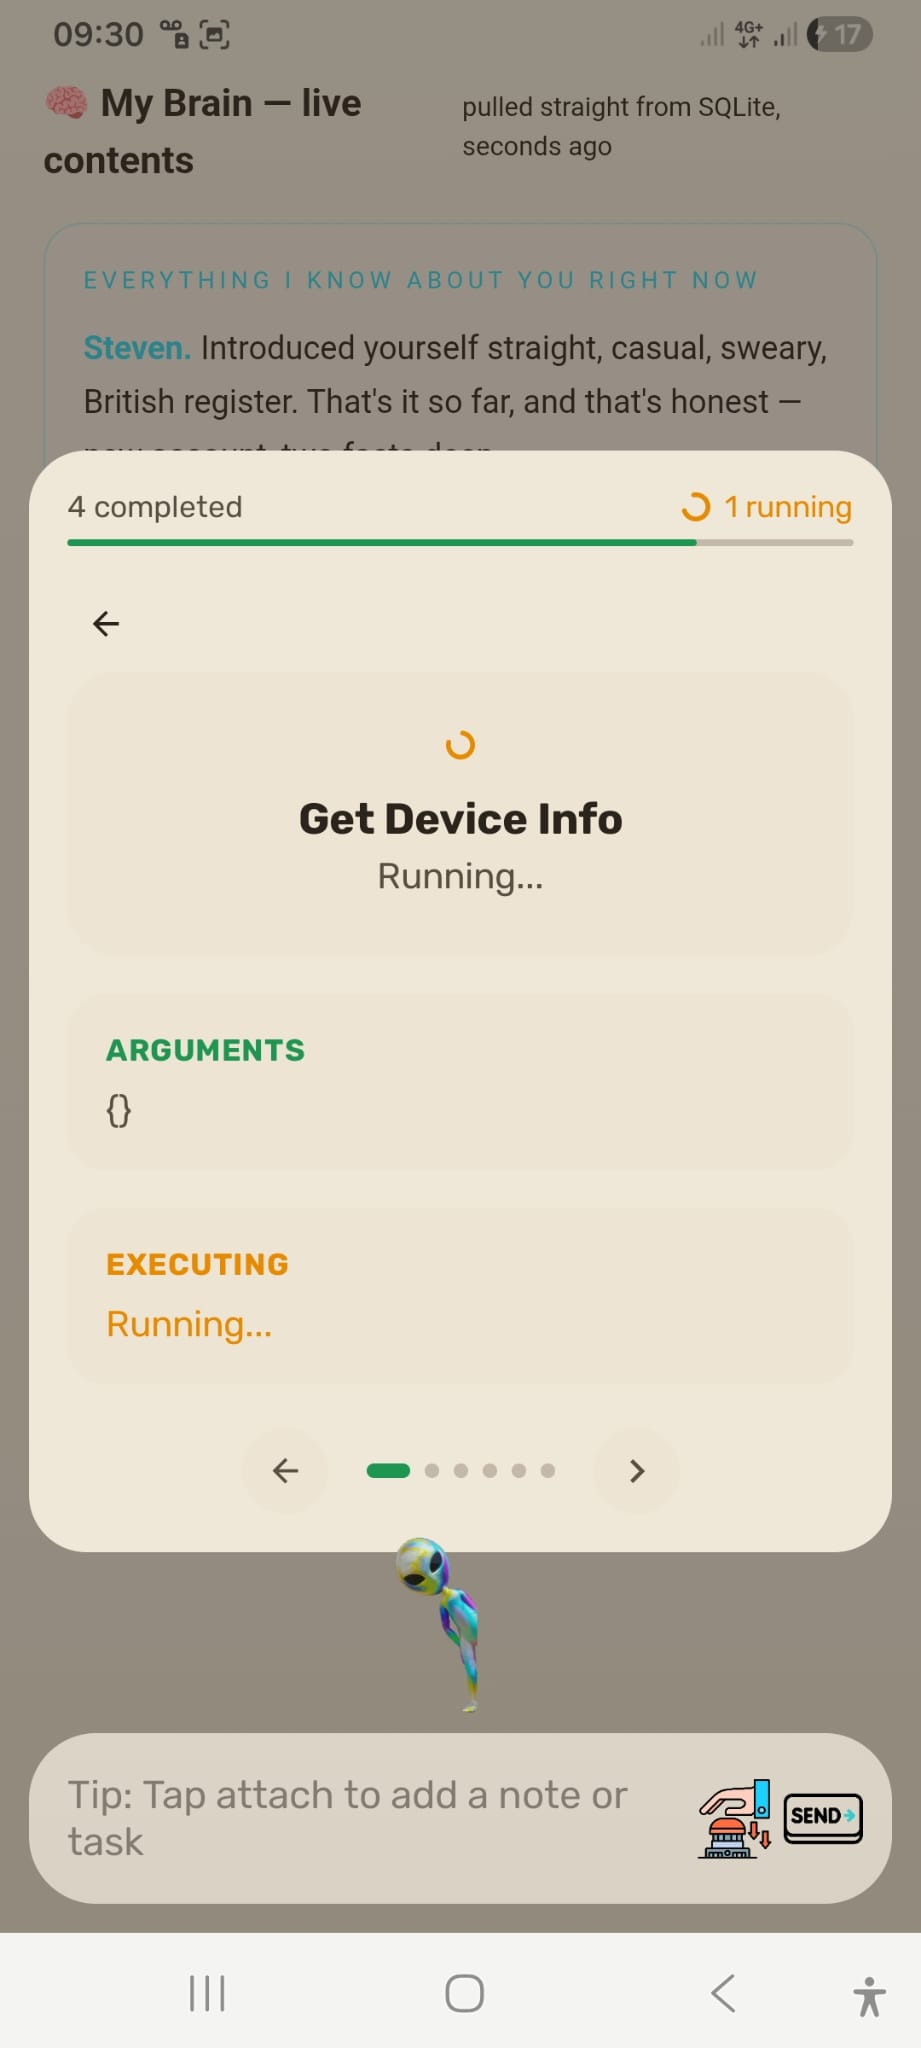
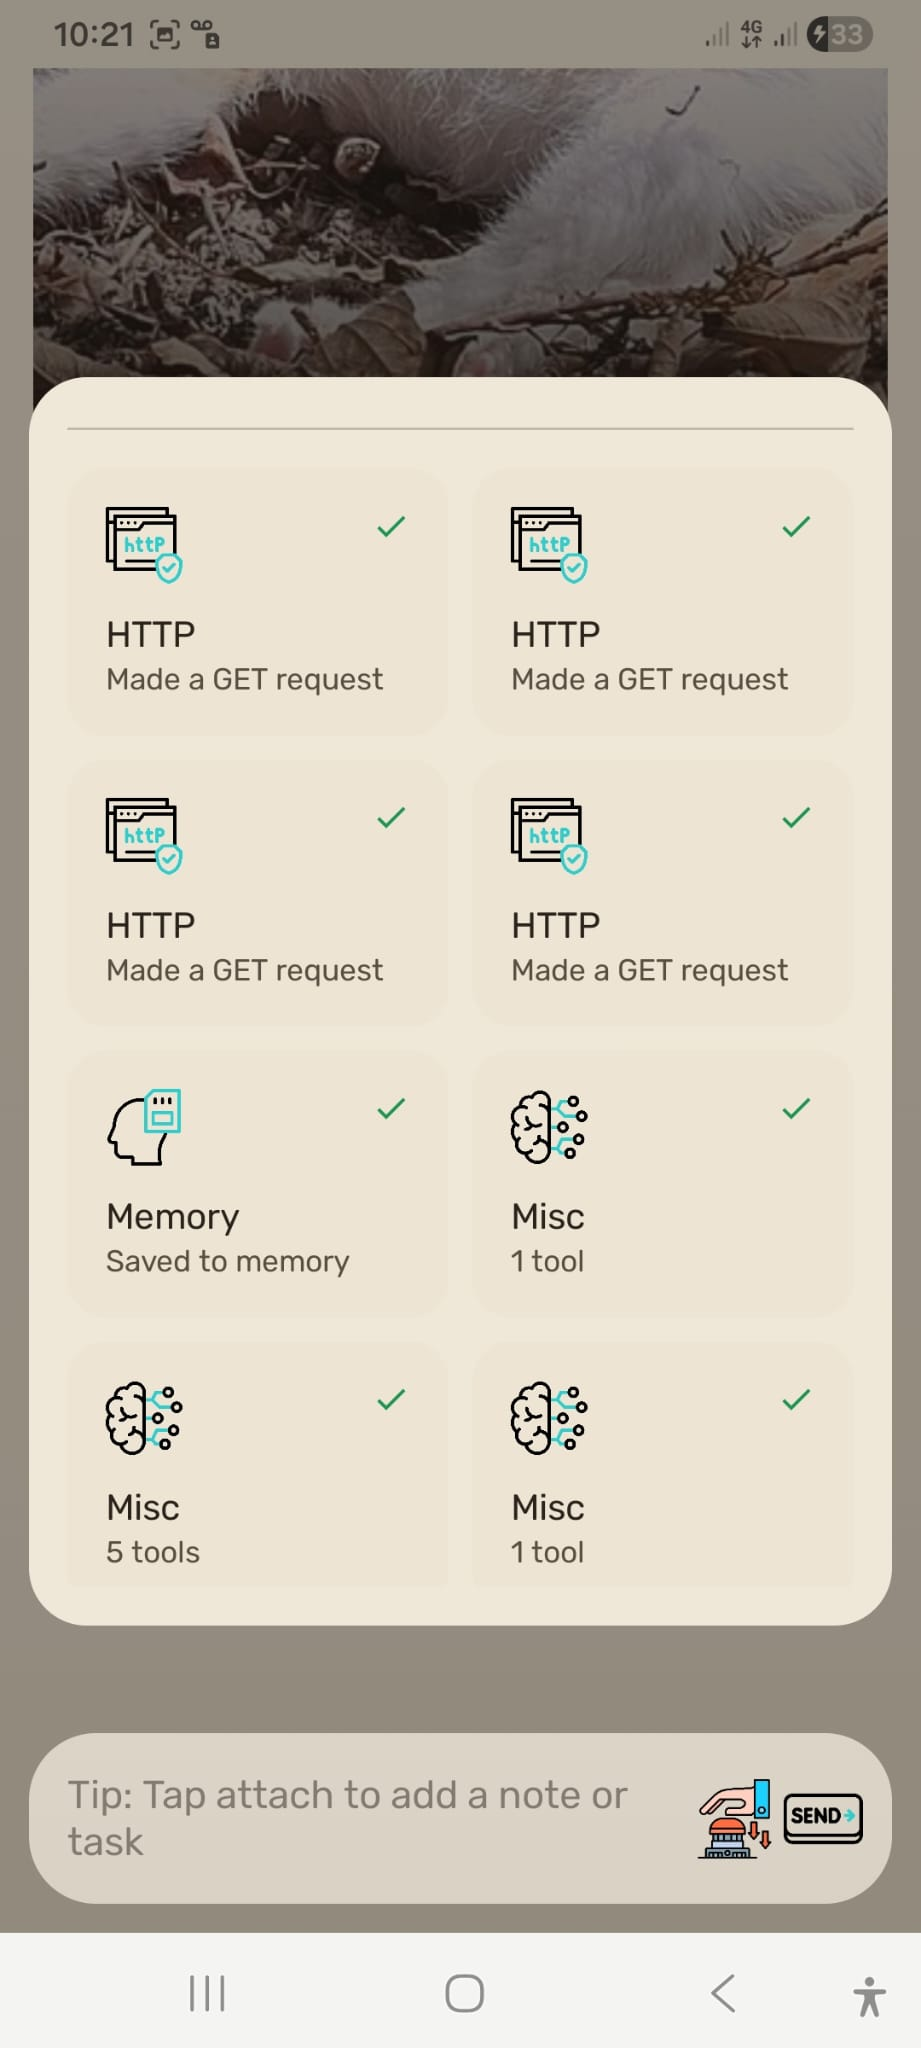
Add all screenshots and videos to README gallery
- Synced 68 screenshots, replacing older variants with current files
- Updated README gallery to embed all 68 screenshots
- Verified all 4 videos already present

diff --git a/README.md b/README.md
@@ -62,16 +62,18 @@ A real app, running on a real phone. All images captured live from GURU:
 
 | | | | | | |
 |---|---|---|---|---|---|
-| ![](screenshots/Guru%20intro%20showing%20loading%20state.jpeg) **Guru intro showing loading state** | ![](screenshots/Guru%20being%20Guru.jpeg) **Guru being Guru** | ![](screenshots/Guru's%20thinking.jpeg) **Guru's thinking** | ![](screenshots/What%20can%20GURU%20do%3F.jpeg) **What can GURU do?** | ![](screenshots/GURU%20device%20control.jpeg) **GURU device control** | ![](screenshots/GURU%20device%20control%20%22my%20body%22.jpeg) **GURU device control "my body"** |
-| ![](screenshots/GURU%20device%20control%20more.jpeg) **GURU device control more** | ![](screenshots/GURU%20notification.jpeg) **GURU notification** | ![](screenshots/GURU%20local%20memory.jpeg) **GURU local memory** | ![](screenshots/GURU%20web.jpeg) **GURU web** | ![](screenshots/GURU%20building.jpeg) **GURU building** | ![](screenshots/GURU%20dpa.jpeg) **GURU dpa** |
-| ![](screenshots/GURU%20fun.jpeg) **GURU fun** | ![](screenshots/GURU%20fresh%20portal.jpeg) **GURU fresh portal** | ![](screenshots/GURU%20permissions%20ui%20boolean%20off.jpeg) **GURU permissions ui boolean off** | ![](screenshots/GURU%20permissions%20intent.jpeg) **GURU permissions intent** | ![](screenshots/GURU%20permissions%20ui%20boolean%20on.jpeg) **GURU permissions ui boolean on** | ![](screenshots/More%20GURU%20permissions%20boolean%20ui.jpeg) **More GURU permissions boolean ui** |
-| ![](screenshots/GURU%20batch%20tool%20call.jpeg) **GURU batch tool call** | ![](screenshots/GURU%20tools%20ui%20level%202%20(notification).jpeg) **GURU tools ui level 2 (notification)** | ![](screenshots/GURU%20tool%20ui%20result%20ui.jpeg) **GURU tool ui result ui** | ![](screenshots/More%20GURU%20tools%20UI.jpeg) **More GURU tools UI** | ![](screenshots/GURU%20brain.jpeg) **GURU brain** | ![](screenshots/GURU%20brain%20part%202.jpeg) **GURU brain part 2** |
-| ![](screenshots/More%20GURU%20thinking.jpeg) **More GURU thinking** | ![](screenshots/GURU%20thinking%2C%20streaming%20%26%20responding.jpeg) **GURU thinking, streaming & responding** | ![](screenshots/GURU%20browsing%20capabilities.jpeg) **GURU browsing capabilities** | ![](screenshots/GURU%20browsing.jpeg) **GURU browsing** | ![](screenshots/GURU%20media%20engine%20no%20JS%20permissions%20(intentional).jpeg) **GURU media engine no JS permissions (intentional)** | ![](screenshots/GURU%20automation.jpeg) **GURU automation** |
-| ![](screenshots/GURU%20code%20deploying.jpeg) **GURU code deploying** | ![](screenshots/GURU%20full%20apps.jpeg) **GURU full apps** | ![](screenshots/GURU%20live%20dashboards.jpeg) **GURU live dashboards** | ![](screenshots/GURU%20mini%20apps%20in%20app.jpeg) **GURU mini apps in app** | ![](screenshots/GURU%20mini%20games%20demo.jpeg) **GURU mini games demo** | ![](screenshots/GURU%20creating%20new%20photobook%20template.jpeg) **GURU creating new photobook template** |
-| ![](screenshots/GURU%20photobook%20portal%20render%20bristol%201.jpeg) **GURU photobook portal render bristol 1** | ![](screenshots/GURU%20photobook%20portal%20render%20bristol%205.jpeg) **GURU photobook portal render bristol 5** | ![](screenshots/GURU%20photobook%20portal%20render%20bristol%2012.jpeg) **GURU photobook portal render bristol 12** | ![](screenshots/GURU%20photobook%20portal%20render%20bristol%2013.jpeg) **GURU photobook portal render bristol 13** | ![](screenshots/GURU%20photobook%20portal%20render%20bristol%2014.jpeg) **GURU photobook portal render bristol 14** | ![](screenshots/GURU%20photobook%20portal%20render%20bristol%20more.jpeg) **GURU photobook portal render bristol more** |
-| ![](screenshots/GURU%20photobook%20portal%20render%202.jpeg) **GURU photobook portal render 2** | ![](screenshots/GURU%20test%20photo%20album%20cats%201.jpeg) **GURU test photo album cats 1** | ![](screenshots/GURU%20test%20photo%20album%20cats%202.jpeg) **GURU test photo album cats 2** | ![](screenshots/GURU%20test%20photo%20album%20cats%203.jpeg) **GURU test photo album cats 3** | ![](screenshots/GURU%20test%20photo%20album%20cats%204.jpeg) **GURU test photo album cats 4** | ![](screenshots/GURU%20test%20photo%20album%20cats%205.jpeg) **GURU test photo album cats 5** |
-| ![](screenshots/GURU%20installing%20kodi%20on%20my%20firestick%201.jpeg) **GURU installing kodi on my firestick 1** | ![](screenshots/GURU%20installing%20kodi%20on%20my%20firestick%202.jpeg) **GURU installing kodi on my firestick 2** | ![](screenshots/GURU%20installing%20kodi%20on%20my%20firestick%203.jpeg) **GURU installing kodi on my firestick 3** | ![](screenshots/GURU%20installing%20kodi%20on%20my%20firestick%20tools%20calls.jpeg) **GURU installing kodi on my firestick tools calls** | ![](screenshots/GURU%20installing%20kodi%20on%20my%20firestick%20tools%20ui.jpeg) **GURU installing kodi on my firestick tools ui** | ![](screenshots/More%20tools%20ui%20GURU.jpeg) **More tools ui GURU** |
-| ![](screenshots/More%20GURU%20tools%20UI.jpeg) **More GURU tools UI** | ![](screenshots/more%20GURU%20tools%20ui%20.jpeg) **more GURU tools ui** | | | | |
+| ![](screenshots/GURU%20Earn%20bug%20bounties.jpeg) **GURU Earn bug bounties** | ![](screenshots/GURU%20Tennis%20betting.jpeg) **GURU Tennis betting** | ![](screenshots/GURU%20automation.jpeg) **GURU automation** | ![](screenshots/GURU%20batch%20tool%20call.jpeg) **GURU batch tool call** | ![](screenshots/GURU%20betting%20.jpeg) **GURU betting** | ![](screenshots/GURU%20brain%20part%202.jpeg) **GURU brain part 2** |
+| ![](screenshots/GURU%20brain.jpeg) **GURU brain** | ![](screenshots/GURU%20browsing%20capabilities.jpeg) **GURU browsing capabilities** | ![](screenshots/GURU%20browsing.jpeg) **GURU browsing** | ![](screenshots/GURU%20building.jpeg) **GURU building** | ![](screenshots/GURU%20code%20deploying.jpeg) **GURU code deploying** | ![](screenshots/GURU%20creating%20new%20photobook%20template.jpeg) **GURU creating new photobook template** |
+| ![](screenshots/GURU%20device%20control%20%22my%20body%22.jpeg) **GURU device control "my body"** | ![](screenshots/GURU%20device%20control%20more.jpeg) **GURU device control more** | ![](screenshots/GURU%20device%20control.jpeg) **GURU device control** | ![](screenshots/GURU%20dpa.jpeg) **GURU dpa** | ![](screenshots/GURU%20earn%20arbitrage.jpeg) **GURU earn arbitrage** | ![](screenshots/GURU%20earn%20ethical%20hacking.jpeg) **GURU earn ethical hacking** |
+| ![](screenshots/GURU%20earn%20match%20betting.jpeg) **GURU earn match betting** | ![](screenshots/GURU%20earn%20render.jpeg) **GURU earn render** | ![](screenshots/GURU%20earn%20trading.jpeg) **GURU earn trading** | ![](screenshots/GURU%20esports%20betting.jpeg) **GURU esports betting** | ![](screenshots/GURU%20exchange%20trading.jpeg) **GURU exchange trading** | ![](screenshots/GURU%20football%20betting.jpeg) **GURU football betting** |
+| ![](screenshots/GURU%20fresh%20portal.jpeg) **GURU fresh portal** | ![](screenshots/GURU%20full%20apps.jpeg) **GURU full apps** | ![](screenshots/GURU%20fun.jpeg) **GURU fun** | ![](screenshots/GURU%20gambeling%20%28casino%29.jpeg) **GURU gambeling (casino)** | ![](screenshots/GURU%20installing%20kodi%20on%20my%20firestick%201.jpeg) **GURU installing kodi on my firestick 1** | ![](screenshots/GURU%20installing%20kodi%20on%20my%20firestick%202.jpeg) **GURU installing kodi on my firestick 2** |
+| ![](screenshots/GURU%20installing%20kodi%20on%20my%20firestick%203.jpeg) **GURU installing kodi on my firestick 3** | ![](screenshots/GURU%20installing%20kodi%20on%20my%20firestick%20tools%20calls.jpeg) **GURU installing kodi on my firestick tools calls** | ![](screenshots/GURU%20installing%20kodi%20on%20my%20firestick%20tools%20ui.jpeg) **GURU installing kodi on my firestick tools ui** | ![](screenshots/GURU%20live%20dashboards.jpeg) **GURU live dashboards** | ![](screenshots/GURU%20local%20memory.jpeg) **GURU local memory** | ![](screenshots/GURU%20media%20engine%20no%20JS%20permissions%20%28intentional%29.jpeg) **GURU media engine no JS permissions (intentional)** |
+| ![](screenshots/GURU%20mini%20apps%20in%20app.jpeg) **GURU mini apps in app** | ![](screenshots/GURU%20mini%20games%20demo.jpeg) **GURU mini games demo** | ![](screenshots/GURU%20notification.jpeg) **GURU notification** | ![](screenshots/GURU%20permissions%20intent.jpeg) **GURU permissions intent** | ![](screenshots/GURU%20permissions%20ui%20boolean%20off.jpeg) **GURU permissions ui boolean off** | ![](screenshots/GURU%20permissions%20ui%20boolean%20on.jpeg) **GURU permissions ui boolean on** |
+| ![](screenshots/GURU%20photobook%20portal%20render%202.jpeg) **GURU photobook portal render 2** | ![](screenshots/GURU%20photobook%20portal%20render%20bristol%201.jpeg) **GURU photobook portal render bristol 1** | ![](screenshots/GURU%20photobook%20portal%20render%20bristol%2012.jpeg) **GURU photobook portal render bristol 12** | ![](screenshots/GURU%20photobook%20portal%20render%20bristol%2013.jpeg) **GURU photobook portal render bristol 13** | ![](screenshots/GURU%20photobook%20portal%20render%20bristol%2014.jpeg) **GURU photobook portal render bristol 14** | ![](screenshots/GURU%20photobook%20portal%20render%20bristol%205.jpeg) **GURU photobook portal render bristol 5** |
+| ![](screenshots/GURU%20photobook%20portal%20render%20bristol%20more.jpeg) **GURU photobook portal render bristol more** | ![](screenshots/GURU%20test%20photo%20album%20cats%201.jpeg) **GURU test photo album cats 1** | ![](screenshots/GURU%20test%20photo%20album%20cats%202.jpeg) **GURU test photo album cats 2** | ![](screenshots/GURU%20test%20photo%20album%20cats%203.jpeg) **GURU test photo album cats 3** | ![](screenshots/GURU%20test%20photo%20album%20cats%204.jpeg) **GURU test photo album cats 4** | ![](screenshots/GURU%20test%20photo%20album%20cats%205.jpeg) **GURU test photo album cats 5** |
+| ![](screenshots/GURU%20thinking%2C%20streaming%20%26%20responding.jpeg) **GURU thinking, streaming & responding** | ![](screenshots/GURU%20tool%20ui%20result%20ui.jpeg) **GURU tool ui result ui** | ![](screenshots/GURU%20tools%20ui%20level%202%20%28notification%29.jpeg) **GURU tools ui level 2 (notification)** | ![](screenshots/GURU%20web.jpeg) **GURU web** | ![](screenshots/Guru%20being%20Guru.jpeg) **Guru being Guru** | ![](screenshots/Guru%20intro%20showing%20loading%20state.jpeg) **Guru intro showing loading state** |
+| ![](screenshots/Guru%27s%20thinking.jpeg) **Guru's thinking** | ![](screenshots/More%20GURU%20Device%20Control.jpeg) **More GURU Device Control** | ![](screenshots/More%20GURU%20permissions%20boolean%20ui.jpeg) **More GURU permissions boolean ui** | ![](screenshots/More%20GURU%20thinking.jpeg) **More GURU thinking** | ![](screenshots/More%20GURU%20tools%20UI.jpeg) **More GURU tools UI** | ![](screenshots/More%20tools%20ui%20GURU.jpeg) **More tools ui GURU** |
+| ![](screenshots/What%20can%20GURU%20do%3F.jpeg) **What can GURU do?** | ![](screenshots/more%20GURU%20tools%20ui%20.jpeg) **more GURU tools ui** |  |  |  |  |
 
 ## Waitlist
 
